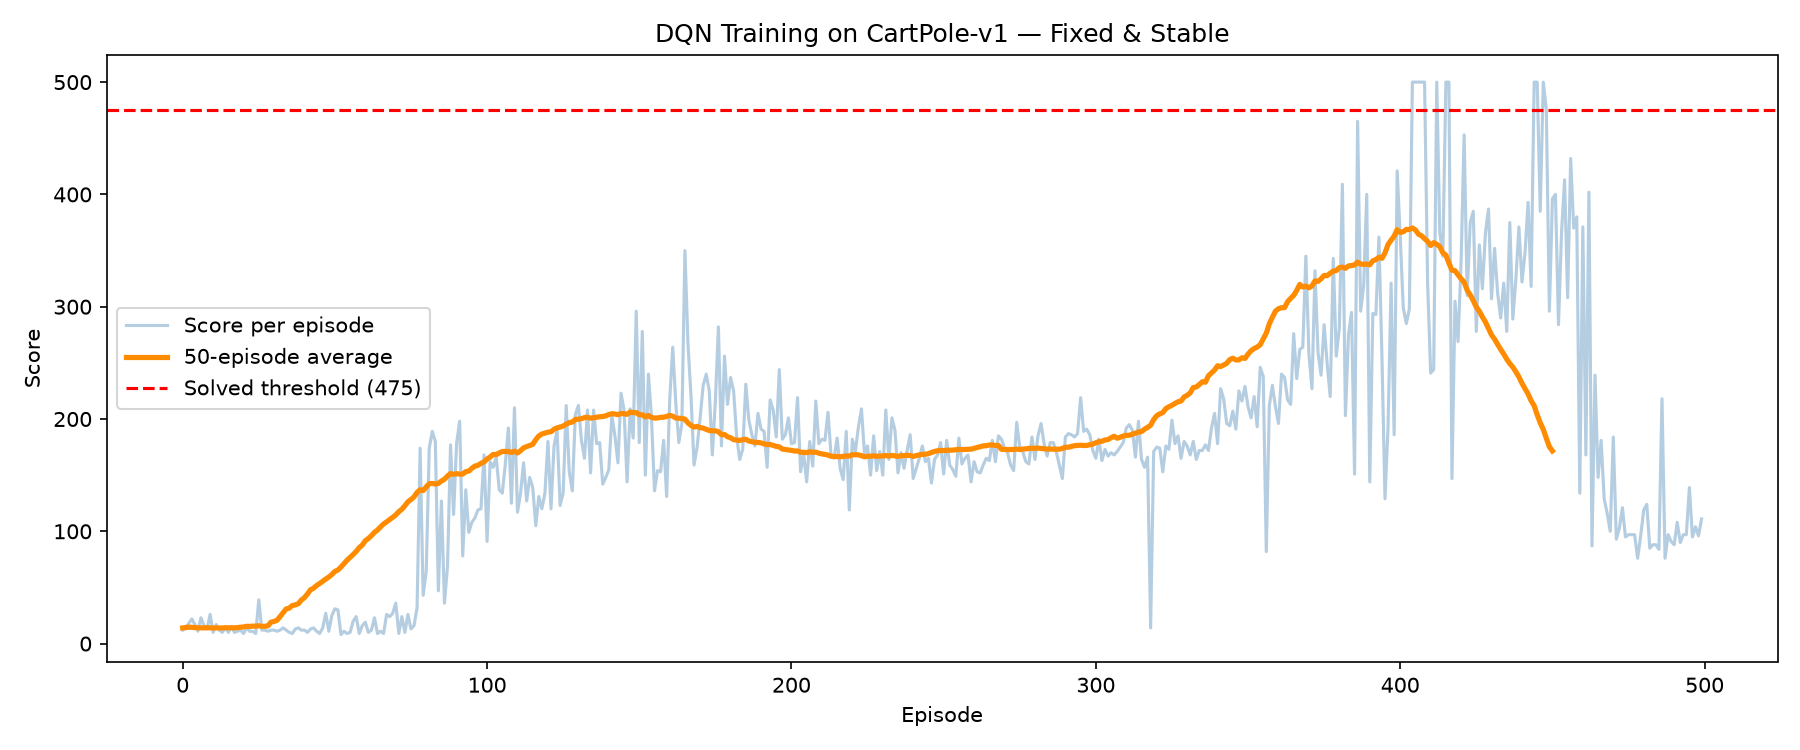
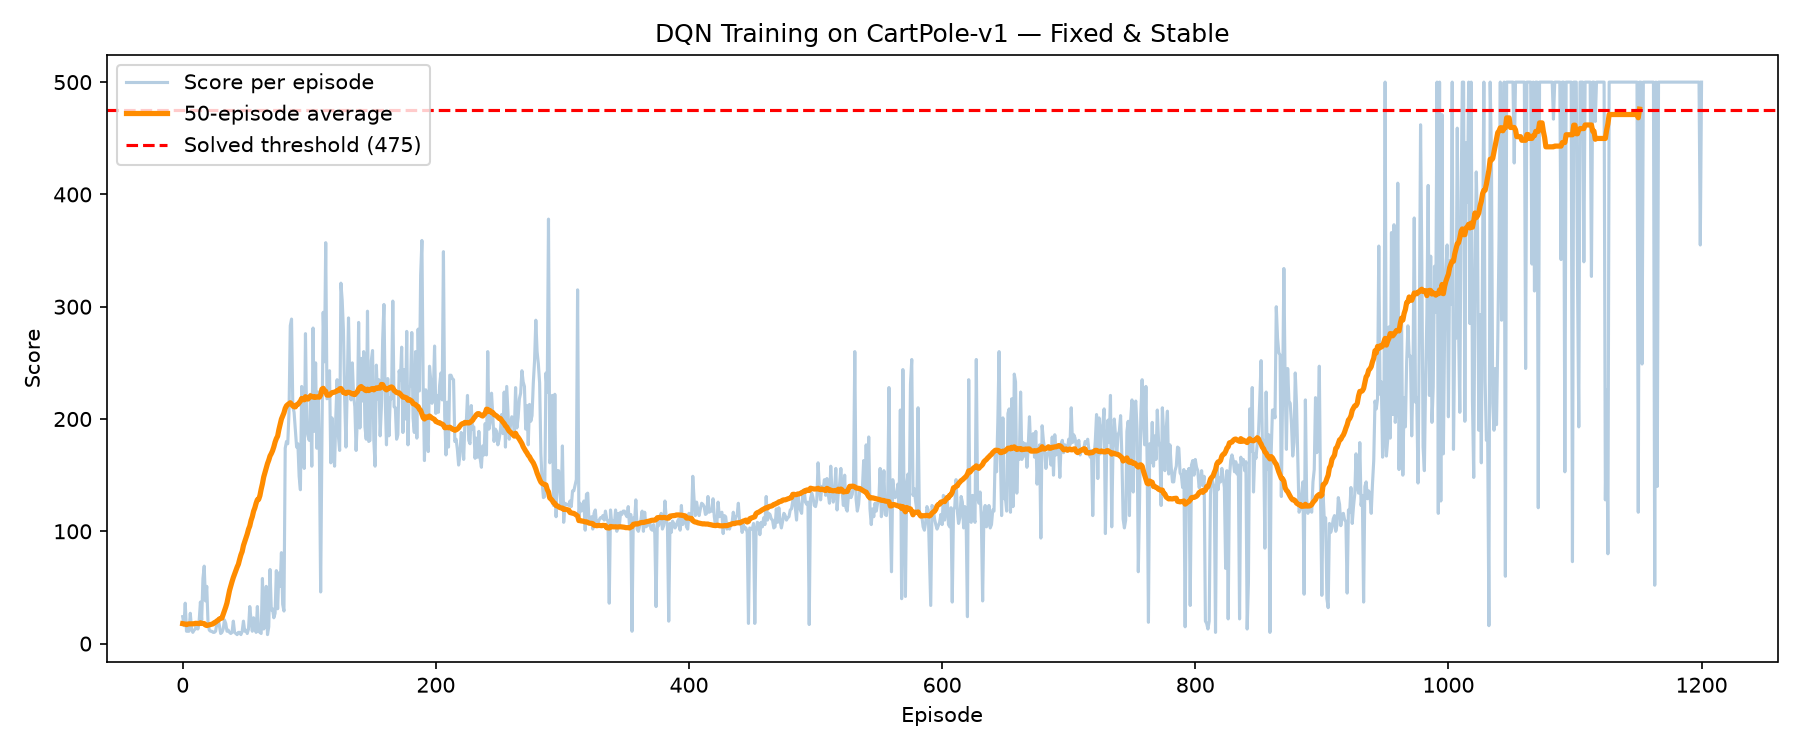
Modify the influencing factors

diff --git a/Week-2/CartPole.py b/Week-2/CartPole.py
@@ -83,8 +83,8 @@ class DQNAgent:
 
         self.gamma         = 0.99
         self.epsilon       = 1.0
-        self.epsilon_min   = 0.01
-        self.epsilon_decay = 0.995
+        self.epsilon_min   = 0.05
+        self.epsilon_decay = 0.997
         self.lr            = 0.0005
         self.batch_size    = 64
         self.target_update = 20
@@ -146,7 +146,7 @@ def train():
     action_size = env.action_space.n
 
     agent    = DQNAgent(state_size, action_size)
-    episodes = 500
+    episodes = 6000
     scores   = []
 
     for episode in range(episodes):
